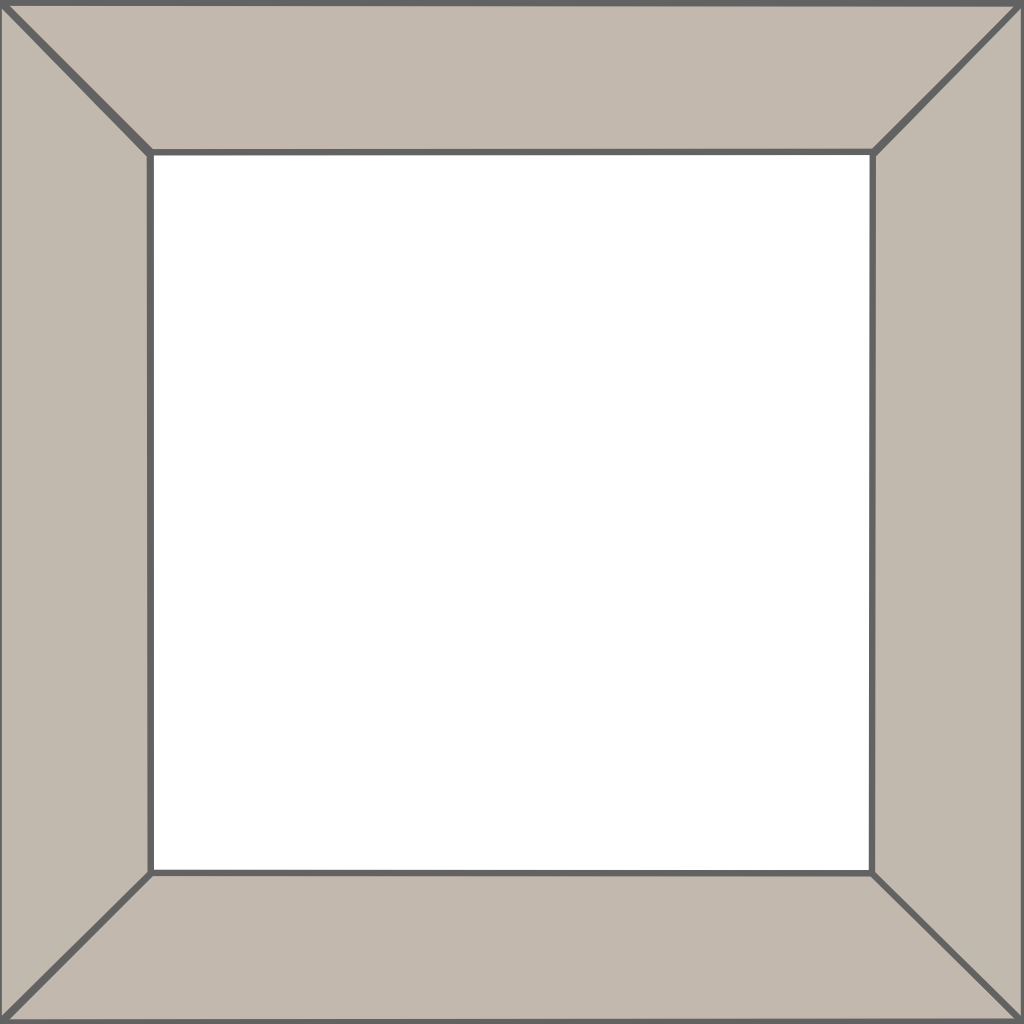
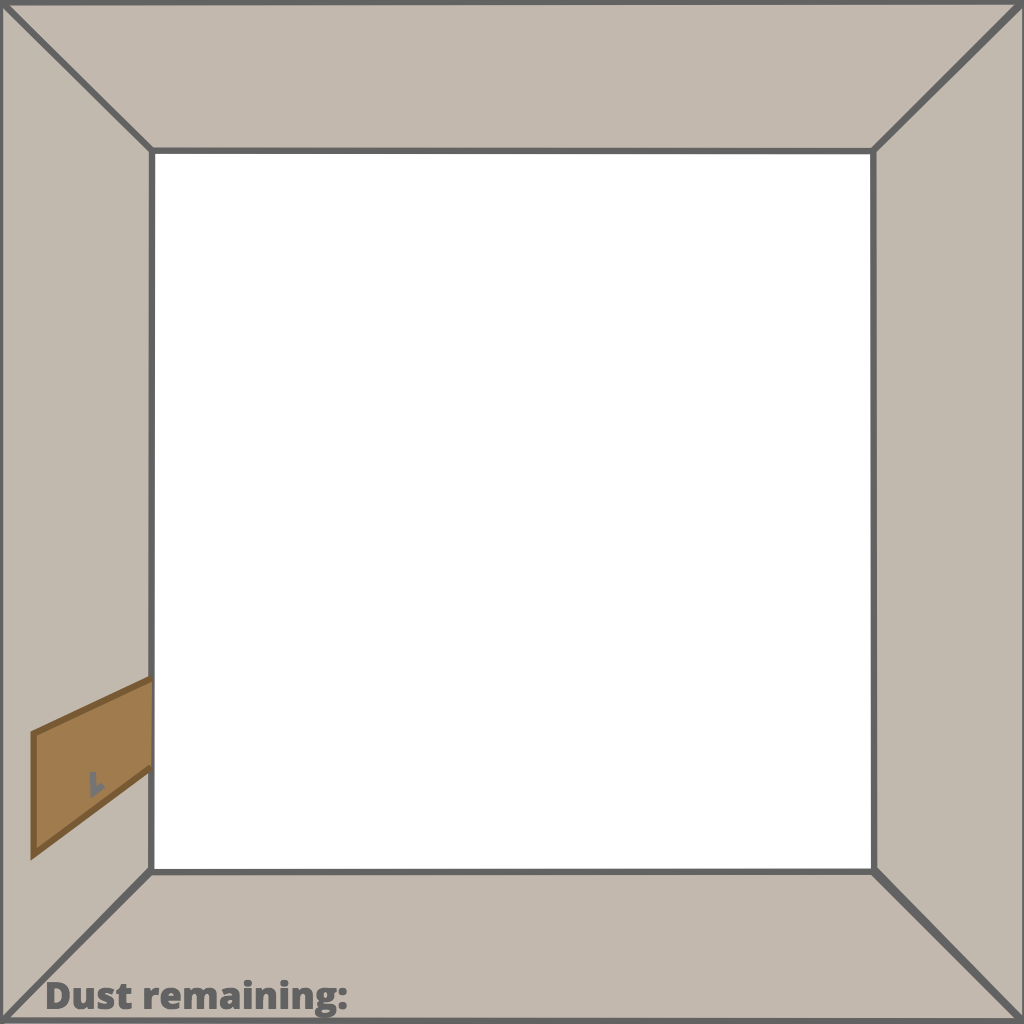
Update layout and walls image

diff --git a/core/src/main/java/de/cdietze/ld37/core/BoardScreen.java b/core/src/main/java/de/cdietze/ld37/core/BoardScreen.java
@@ -1,19 +1,19 @@
 package de.cdietze.ld37.core;
 
 import com.google.common.base.Optional;
-import de.cdietze.playn_util.ScaledElement;
 import de.cdietze.playn_util.Screen;
 import playn.core.Color;
 import playn.scene.GroupLayer;
 import playn.scene.ImageLayer;
 import playn.scene.Layer;
 import playn.scene.Pointer;
-import pythagoras.f.Dimension;
 import pythagoras.f.MathUtil;
 import react.Function;
 import react.RList;
 import react.Slot;
-import tripleplay.ui.*;
+import tripleplay.ui.Group;
+import tripleplay.ui.Label;
+import tripleplay.ui.Root;
 import tripleplay.ui.layout.AxisLayout;
 import tripleplay.ui.layout.BorderLayout;
 import tripleplay.util.Colors;
@@ -28,7 +28,6 @@ import static de.cdietze.ld37.core.PointUtils.toY;
 public class BoardScreen extends Screen {
   public static final Logger log = new Logger("screen");
 
-  private static final Dimension maxSize = new Dimension(2200, 1800);
   public final MainGame game;
 
   /**
@@ -55,31 +54,32 @@ public class BoardScreen extends Screen {
   public void wasAdded() {
     super.wasAdded();
     Root root = iface.createRoot(new BorderLayout(), UiUtils.newSheet(plat.graphics()), layer);
-    // We define a maximum view size. Otherwise sprites become really blurry and its just too big
-
-    float width = Math.min(maxSize.width, plat.graphics().viewSize.width());
-    float height = Math.min(maxSize.height, plat.graphics().viewSize.height());
+    float width = plat.graphics().viewSize.width();
+    float height = plat.graphics().viewSize.height();
     root.setSize(width, height);
-    root.setLocation((plat.graphics().viewSize.width() - width) * .5f, (plat.graphics().viewSize.height() - height) * .5f);
 
+    float squareSize = Math.min(plat.graphics().viewSize.width(), plat.graphics().viewSize.height());
+
+    float offsetX = (plat.graphics().viewSize.width() - squareSize) * .5f;
+    float offsetY = (plat.graphics().viewSize.height() - squareSize) * .5f;
+
+    log.info("screen#wasAdded", "offsetX", offsetX, "offsetY", offsetY);
     GroupLayer group = new GroupLayer();
-    group.setSize(1024, 1024);
+    group.setSize(1f, 1f);
+    group.setScale(squareSize);
 
     final ImageLayer wallsLayer = new ImageLayer(game.images.walls);
+    float wallImageWidth = 1024f;
+    wallsLayer.setScale(1f / wallImageWidth);
     wallsLayer.setOrigin(Layer.Origin.CENTER);
-    wallsLayer.setSize(1024, 1024);
-    group.add(wallsLayer);
+    group.addAt(wallsLayer, group.width() * .5f, group.height() * .5f);
 
-    group.add(boardLayer);
-    boardLayer.setScale(728f / 8);
-
-//    ScaledElement boardElement = new ScaledElement(boardLayer);
-    ScaledElement boardElement = new ScaledElement(group);
-//    boardElement.addStyles(Style.BACKGROUND.is(Background.blank().inset(10f)));
-
-//    boardLayer.add(Layers.solid(0xffcccccc, dim.width(), dim.height()).setDepth(Depths.background));
-
-    root.add(boardElement.setConstraint(BorderLayout.CENTER));
+    group.addAt(boardLayer, group.width() * .5f, group.height() * .5f);
+    float wallWidth = 148f;
+    float wallToFloor = squareSize / (wallImageWidth - 2 * wallWidth);
+    boardLayer.setScale(1f / wallToFloor / 8);
+    root
+            .layer.addAt(group, offsetX, offsetY);
 
     root.add(
             new Group(AxisLayout.vertical()).add(

diff --git a/core/src/main/java/de/cdietze/ld37/core/MainGame.java b/core/src/main/java/de/cdietze/ld37/core/MainGame.java
@@ -1,13 +1,13 @@
 package de.cdietze.ld37.core;
 
-import playn.core.Image;
 import playn.core.Platform;
-import playn.scene.ImageLayer;
+import playn.scene.Layer;
 import playn.scene.Pointer;
 import playn.scene.SceneGame;
 import pythagoras.i.Dimension;
 import tripleplay.game.ScreenStack;
 import tripleplay.game.trans.SlideTransition;
+import tripleplay.util.Layers;
 
 public class MainGame extends SceneGame {
 
@@ -29,10 +29,9 @@ public class MainGame extends SceneGame {
 
     this.images = ImageLoader.loadImages(plat);
     // create and add background image layer
-    Image bgImage = plat.assets().getImage("images/bg.png");
-    ImageLayer bgLayer = new ImageLayer(bgImage);
+    Layer bgLayer = Layers.solid(0xff626262, plat.graphics().screenSize().width(), plat.graphics().screenSize().height());
     // scale the background to fill the screen
-    bgLayer.setSize(plat.graphics().viewSize);
+    //bgLayer.setSize(plat.graphics().viewSize);
     rootLayer.add(bgLayer);
 
     // Register Pointer so we can handle any pointer input (clicks, mouse/touch events etc.)
